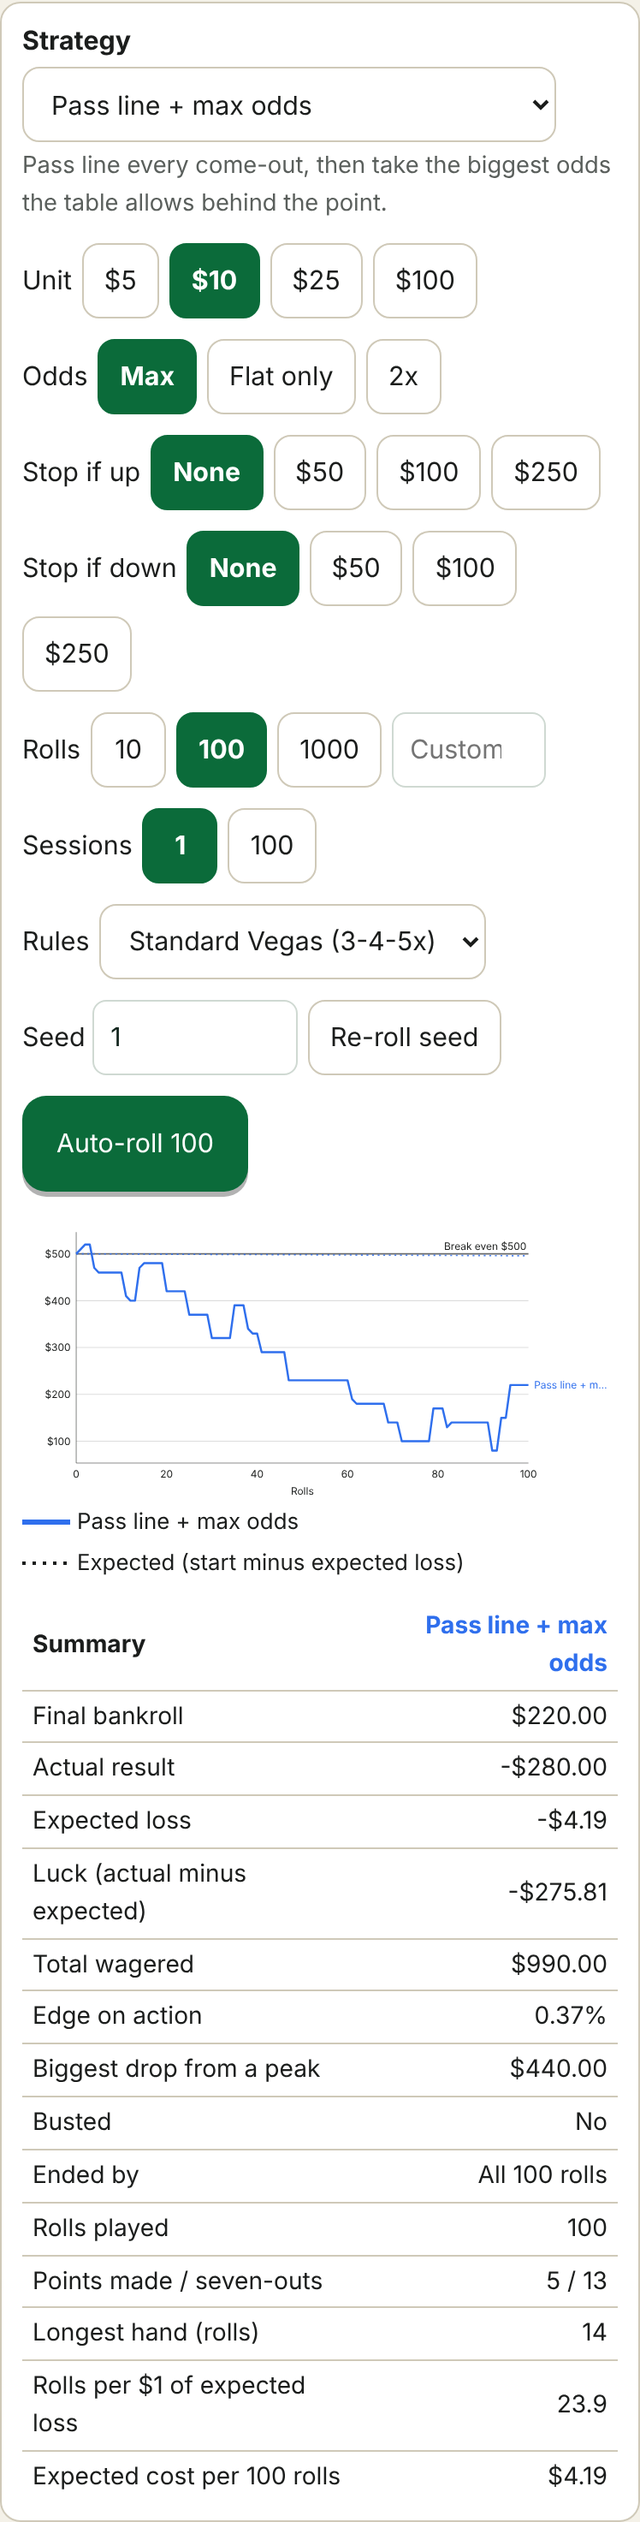
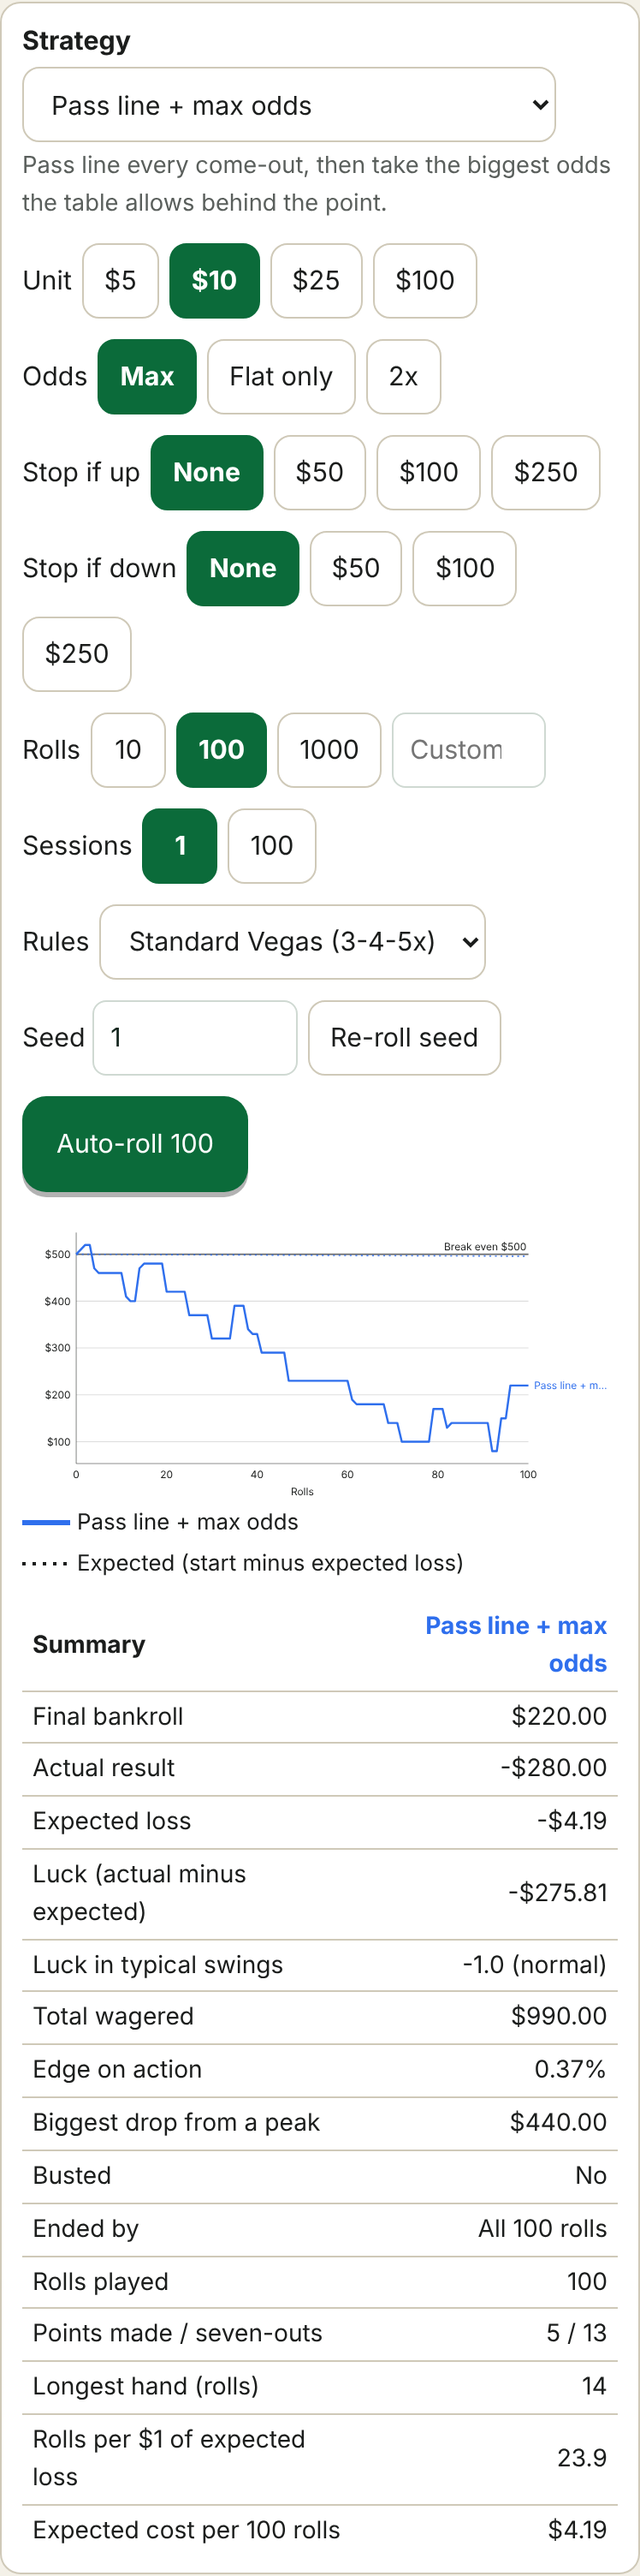
fix(table): I088 re-review: $100+ odds badges clear the come flat
- come odds offset 1.35r (a $1,000 odds badge leaves the come chips'
  centre free); lay odds beside don't come at 1.75r ($100 next to $25)
- travelled come / don't come labels name the number: 'Edit Come bet
  on 8, $5'
- layouts.test checks badge widths up to $1,000 (badgeWidth exported from
  ChipStack); layout.spec adds a $20 come with $100 odds, at the project
  viewports plus 360, 844x390 and 1280

Claude-Session: https://claude.ai/code/session_01J1AWazLL9vmYC2Y4rcKnaj

diff --git a/tests/e2e/layout.spec.ts b/tests/e2e/layout.spec.ts
@@ -13,36 +13,60 @@ async function confirm(page: Page) {
   await expect(sheet).toHaveCount(0);
 }
 
-test('come odds sit offset on the come bet: a tap on each stack opens that bet', async ({
-  page,
-}) => {
-  await page.goto('/#/play?speed=instant&seed=1&dice=3-3,4-4');
-  await page.locator('[data-region="pass"]').click();
-  await confirm(page);
-  await page.getByRole('button', { name: /^Roll/ }).click(); // point 6
-  await page.locator('[data-region="come"]').click();
-  await confirm(page);
-  await page.getByRole('button', { name: /^Roll/ }).click(); // come travels to 8
-  await page.locator('[data-region="box-8"]').click();
-  const sheet = page.getByRole('dialog');
-  await sheet.getByRole('radio', { name: 'Come odds', exact: true }).click();
-  await confirm(page);
+// The project's own viewport, plus the widths the review checked (run once, under desktop).
+const VIEWPORTS = [
+  null,
+  { width: 360, height: 740 },
+  { width: 844, height: 390 },
+  { width: 1280, height: 800 },
+] as const;
 
-  const come = page.locator('[data-stack][aria-label^="Edit Come bet"]');
-  const odds = page.locator('[data-stack][aria-label^="Edit Come Odds bet" i]');
-  await expect(come).toHaveCount(1);
-  await expect(odds).toHaveCount(1);
-  // both amount badges are visible (not hidden under the other stack)
-  for (const s of [come, odds]) await expect(s.locator('.sim-stack-badge')).toBeVisible();
+for (const vp of VIEWPORTS) {
+  test.describe(vp ? `${vp.width}x${vp.height}` : 'project viewport', () => {
+    if (vp) test.use({ viewport: vp });
+    // extra viewports run once, under the desktop project
+    test.skip(({ isMobile }) => vp !== null && isMobile, 'extra viewports run once');
+    for (const c of [
+      { name: '$5 come, default odds', raise: 0, maxOdds: false, odds: null },
+      { name: '$20 come, $100 odds', raise: 3, maxOdds: true, odds: '$100' },
+    ]) {
+      test(`come odds sit offset on the come bet (${c.name}): a tap on each stack opens that bet`, async ({
+        page,
+      }) => {
+        await page.goto('/#/play?speed=instant&seed=1&dice=3-3,4-4');
+        await page.locator('[data-region="pass"]').click();
+        await confirm(page);
+        await page.getByRole('button', { name: /^Roll/ }).click(); // point 6
+        await page.locator('[data-region="come"]').click();
+        const sheet = page.getByRole('dialog');
+        for (let i = 0; i < c.raise; i++)
+          await sheet.getByRole('button', { name: 'Increase amount' }).click(); // $5 chip steps
+        await confirm(page);
+        await page.getByRole('button', { name: /^Roll/ }).click(); // come travels to 8
+        await page.locator('[data-region="box-8"]').click();
+        await sheet.getByRole('radio', { name: 'Come odds', exact: true }).click();
+        if (c.maxOdds) await sheet.getByRole('button', { name: 'Max odds' }).click();
+        await confirm(page);
 
-  const c = await stackCentre(come);
-  await page.mouse.click(c.x, c.y);
-  await expect(sheet.getByRole('heading').first()).not.toContainText(/odds/i);
-  await expect(sheet.getByRole('heading').first()).toContainText(/come/i);
-  await sheet.getByRole('button', { name: 'Cancel' }).click();
-  await expect(sheet).toHaveCount(0);
+        const come = page.locator('[data-stack][aria-label^="Edit Come bet on 8"]');
+        const odds = page.locator('[data-stack][aria-label^="Edit Come Odds bet on 8" i]');
+        await expect(come).toHaveCount(1);
+        await expect(odds).toHaveCount(1);
+        if (c.odds) await expect(odds.locator('.sim-stack-badge')).toHaveText(c.odds);
+        // both amount badges are visible (not hidden under the other stack)
+        for (const s of [come, odds]) await expect(s.locator('.sim-stack-badge')).toBeVisible();
 
-  const o = await stackCentre(odds);
-  await page.mouse.click(o.x, o.y);
-  await expect(sheet.getByRole('heading').first()).toContainText(/odds/i);
-});
+        const cc = await stackCentre(come);
+        await page.mouse.click(cc.x, cc.y);
+        await expect(sheet.getByRole('heading').first()).not.toContainText(/odds/i);
+        await expect(sheet.getByRole('heading').first()).toContainText(/come/i);
+        await sheet.getByRole('button', { name: 'Cancel' }).click();
+        await expect(sheet).toHaveCount(0);
+
+        const o = await stackCentre(odds);
+        await page.mouse.click(o.x, o.y);
+        await expect(sheet.getByRole('heading').first()).toContainText(/odds/i);
+      });
+    }
+  });
+}

diff --git a/src/sim/ui/layouts/layouts.test.ts b/src/sim/ui/layouts/layouts.test.ts
@@ -10,6 +10,7 @@ import {
   hopSpot,
   spotPosition,
 } from './index';
+import { BADGE_HEIGHT, badgeWidth } from '../ChipStack';
 import { HOP_BAND, stackExtent } from './hopSlots';
 import type { ChipSpotKey, Point2, Rect, TableLayout } from './types';
 
@@ -192,19 +193,30 @@ describe('chip spots: every bet type renders at its documented spot (simulator.m
     '$id: odds offset on the flat keep both amount badges readable and the flat tappable',
     (layout) => {
       const r = layout.chipRadius;
-      const badge = { w: 1.5 * r, h: 0.84 * r }; // ChipStack badge, for amounts up to "$99"
+      const bh = BADGE_HEIGHT * r;
       for (const n of [4, 5, 6, 8, 9, 10] as const) {
         const s = findRegion(layout, `box-${n}`)!.chipSpots;
+        const why = `${layout.id} ${n}`;
         for (const [flat, odds] of [
           [s['come-point']!, s.odds!],
           [s['dc-point']!, s['dc-odds']!],
         ] as const) {
-          const dx = Math.abs(odds.x - flat.x);
-          const dy = Math.abs(odds.y - flat.y);
-          expect(dx >= badge.w || dy >= badge.h, `${layout.id} ${n}`).toBe(true);
-          expect(dist(odds, flat), `${layout.id} ${n}`).toBeGreaterThan(r); // centre not covered
-          expect(dist(odds, flat), `${layout.id} ${n}`).toBeLessThan(2 * r); // still "on" it
+          expect(dist(odds, flat), why).toBeGreaterThan(r); // the odds chips clear the flat's centre
+          expect(dist(odds, flat), why).toBeLessThan(2 * r); // still "on" it
         }
+        // come odds up to "$1,000": the odds badge (about 1.1r below the odds spot) stays clear
+        // of the flat's centre, so a tap there opens the come bet; the two badges don't overlap
+        const come = s['come-point']!;
+        const odds = s.odds!;
+        const half = badgeWidth('$1,000', r) / 2;
+        expect(odds.x - half, why).toBeGreaterThan(come.x);
+        expect(Math.abs(odds.y - come.y), why).toBeGreaterThanOrEqual(bh);
+        // lay odds up to "$100" beside a "$25" don't come: both badges readable
+        const dc = s['dc-point']!;
+        const lay = s['dc-odds']!;
+        expect(lay.x - dc.x, why).toBeGreaterThanOrEqual(
+          badgeWidth('$100', r) / 2 + badgeWidth('$25', r) / 2,
+        );
       }
     },
   );

diff --git a/src/sim/ui/Table.tsx b/src/sim/ui/Table.tsx
@@ -46,6 +46,8 @@ const BONUS_REGIONS: ReadonlySet<RegionId> = new Set<RegionId>(['fire', 'all', '
 interface Placed {
   key: string;
   region: RegionDef;
+  /** travelled come / don't come (and their odds): the number they sit on */
+  point: number | null;
   type: BetTypeId;
   x: number;
   y: number;
@@ -102,6 +104,7 @@ function placeBets(
       stacks.set(key, {
         key,
         region,
+        point: /^(come|dont-come)(-odds)?$/.test(b.type) ? b.point : null,
         type: b.type,
         x: pos.x,
         y: pos.y,
@@ -266,7 +269,7 @@ export function Table({
                 class={`sim-stack-hit${s.betIds.some((id) => wonIds.has(id)) ? ' is-won' : ''}`}
                 role="button"
                 tabindex={0}
-                aria-label={`Edit ${s.caption ? `${betLabel(s.type)} ${s.caption}` : betLabel(s.type)} bet, ${fmtMoney(s.amount)}${s.off ? ', off' : s.on ? ', on for the come-out' : ''}`}
+                aria-label={`Edit ${s.caption ? `${betLabel(s.type)} ${s.caption}` : betLabel(s.type)} bet${s.point ? ` on ${s.point}` : ''}, ${fmtMoney(s.amount)}${s.off ? ', off' : s.on ? ', on for the come-out' : ''}`}
                 onClick={(e) => {
                   e.stopPropagation();
                   onStackTap?.(s.betIds[0]!, s.betIds);

diff --git a/src/sim/ui/ChipStack.tsx b/src/sim/ui/ChipStack.tsx
@@ -99,6 +99,13 @@ export interface ChipStackProps {
 
 const STACK_LIMIT = 5;
 
+/** Width of the amount badge under a stack, e.g. "$1,000" (layout tests use it for spacing). */
+export function badgeWidth(text: string, r: number): number {
+  return Math.max(r * 1.5, text.length * r * 0.34 + r * 0.5);
+}
+/** Height of the amount badge; its centre sits about 1.1r below the stack's spot. */
+export const BADGE_HEIGHT = 0.84;
+
 /** Up to 5 chips (offset -6 units each) plus an amount badge. Purely decorative: the region label announces the bet. */
 export function ChipStack({
   x,
@@ -116,7 +123,7 @@ export function ChipStack({
   const bottomFirst = [...chips].reverse(); // largest at the bottom
   const thick = Math.max(4, r * 0.14);
   const text = fmtMoney(amount);
-  const bw = Math.max(r * 1.5, text.length * r * 0.34 + r * 0.5);
+  const bw = badgeWidth(text, r);
   return (
     <g
       class={`sim-stack${off ? ' is-off' : ''}${cls ? ' ' + cls : ''}`}

diff --git a/src/sim/ui/layouts/shared.ts b/src/sim/ui/layouts/shared.ts
@@ -34,8 +34,8 @@ function boxBetTypes(n: PointNumber): BetTypeId[] {
  * that both amount badges show and a tap on the flat's centre still hits the flat. Lay odds on a
  * don't-come bet go beside it (the top bar has no room above).
  */
-export const ODDS_OFFSET = { dx: 0.8, dy: -0.9 } as const;
-export const DC_ODDS_OFFSET = { dx: 1.6, dy: 0 } as const;
+export const ODDS_OFFSET = { dx: 1.35, dy: -0.9 } as const;
+export const DC_ODDS_OFFSET = { dx: 1.75, dy: 0 } as const;
 /** Height of the shaded top bar (don't come), as a fraction of the box height. */
 export const BOX_BAR = 0.27;
 /** How far a full stack (5 chips) rises above its spot, in viewBox units. */

diff --git a/src/sim/ui/components.test.tsx b/src/sim/ui/components.test.tsx
@@ -336,6 +336,10 @@ describe('Table chip placement (dealer positions)', () => {
       g.getAttribute('data-stack'),
     );
     expect(order).toEqual(['c', 'o']);
+    const name = (id: string) =>
+      document.querySelector(`[data-stack="${id}"]`)!.getAttribute('aria-label');
+    expect(name('c')).toBe('Edit Come bet on 8, $5');
+    expect(name('o')).toMatch(/^Edit Come odds bet on 8, \$15$/i);
     const pos = (id: string) =>
       document.querySelector(`[data-stack="${id}"] .sim-stack`)!.getAttribute('transform');
     expect(pos('o')).not.toEqual(pos('c'));

diff --git a/docs/design/simulator.md b/docs/design/simulator.md
@@ -675,9 +675,9 @@ Inside each number box, chips sit where a dealer puts them (spots in `layouts/sh
 
 | Area | Bets | Spot |
 |---|---|---|
-| Top bar (shaded, left) | travelled don't come (`dc-point`), its lay odds beside it (`dc-odds`, +1.6r) | `(x+44k, y+r+28)`: a full stack stays inside the box |
+| Top bar (shaded, left) | travelled don't come (`dc-point`), its lay odds beside it (`dc-odds`, +1.75r: a $100 lay odds badge clears a $25 don't-come badge) | `(x+44k, y+r+28)`: a full stack stays inside the box |
 | Right, under the puck | lay bets (`lay`) with a LAY button | `(x+w−44k, y+54%)` |
-| Come-point area (left, middle) | travelled come bets (`come-point`), come odds offset on the flat (`odds`, +0.8r, −0.9r: both amount badges show and a tap on the flat's centre still hits the flat) | `(x+44k, y+56%)` |
+| Come-point area (left, middle) | travelled come bets (`come-point`), come odds offset on the flat (`odds`, +1.35r, −0.9r: both amount badges show, and even a $1,000 odds badge leaves the flat's centre free, so a tap there opens the come bet) | `(x+44k, y+56%)` |
 | Bottom (y+80%) | place bets (`main`, left), buy bets (`buy`, right) with a BUY button | `(x+30%, y+80%)`, `(x+70%, y+80%)` |
 
 The tests keep lay ≥ 2r from the don't-come stacks, come odds ≥ 2r from place, buy ≥ 2r from the puck, and lay and lay odds clear of the puck. The large numeral (5 and 9 spelled "FIVE"/"NINE" as on real tables) sits in the middle. The puck (r = 42) sits at the box's top-right `(x+w−50, y+50)` when ON. When OFF it sits at the top-left of the come region (black disc, "OFF"). Pass line and Don't Pass bar each print a dashed odds area ("ODDS" / "LAY ODDS") about 100 units right of the flat bet; pass and don't pass odds go there. The printed odds areas and the separate buy spot are stylisations for clarity: real layouts print neither, and dealers put line odds behind the flat bet and mark buy bets with a button on the place spot. A stack that is not working carries a small black OFF puck on its top right; a toggleable bet turned on for the come-out carries a white ON puck (the stack's label says "off" / "on for the come-out"). Odds stacks are drawn over flat stacks.
